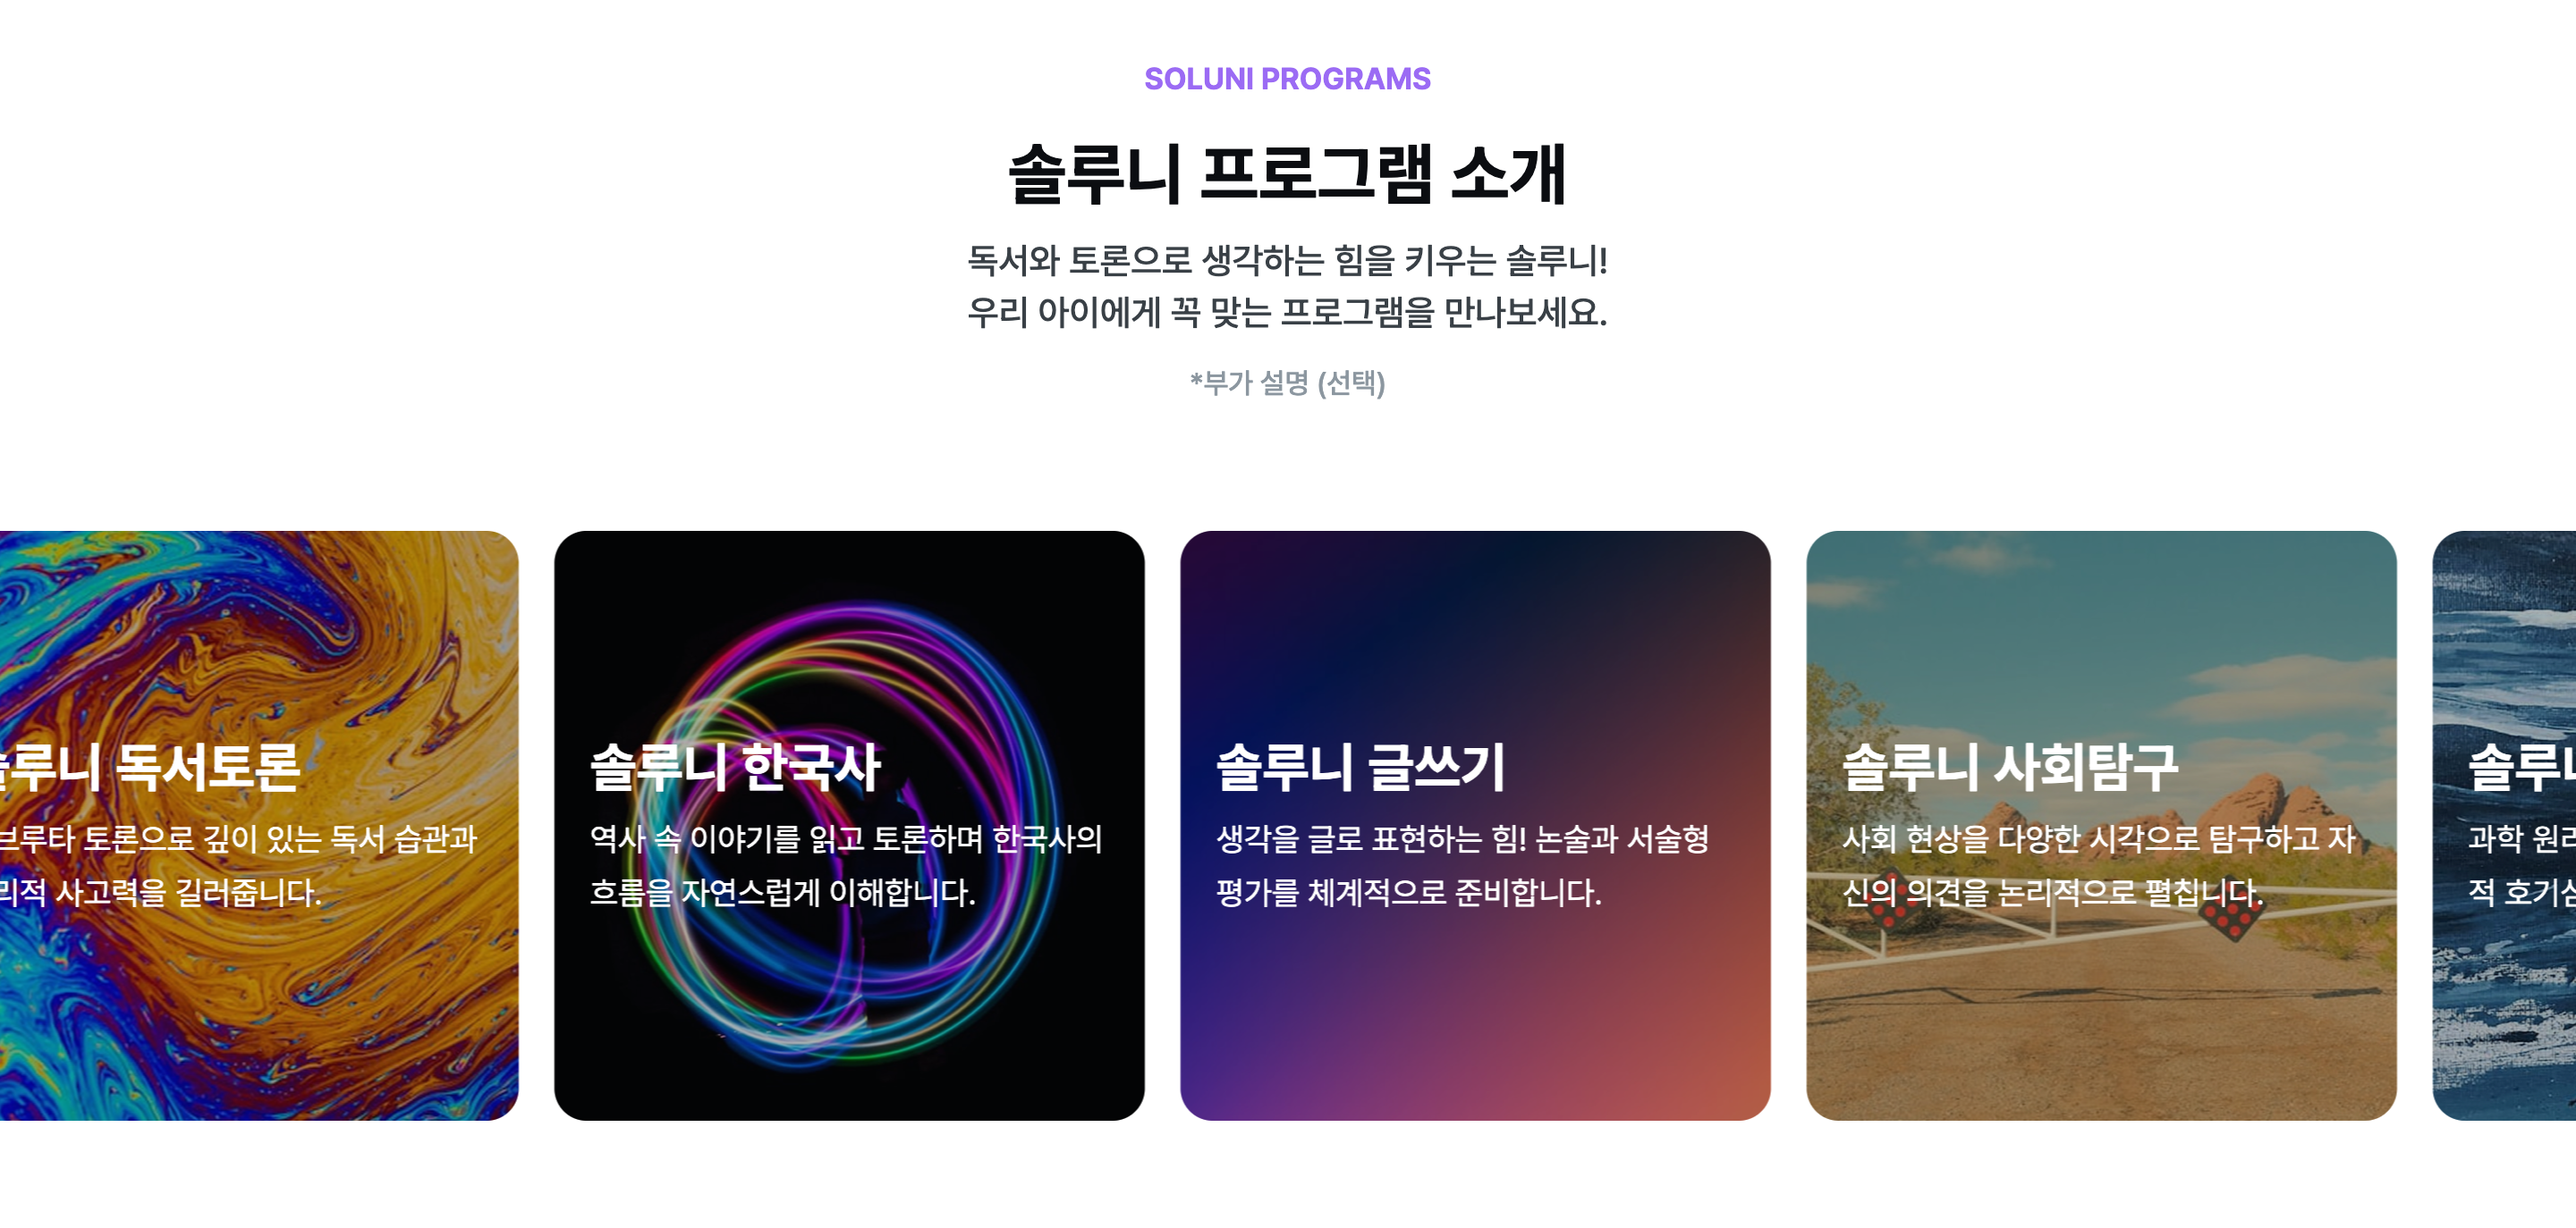
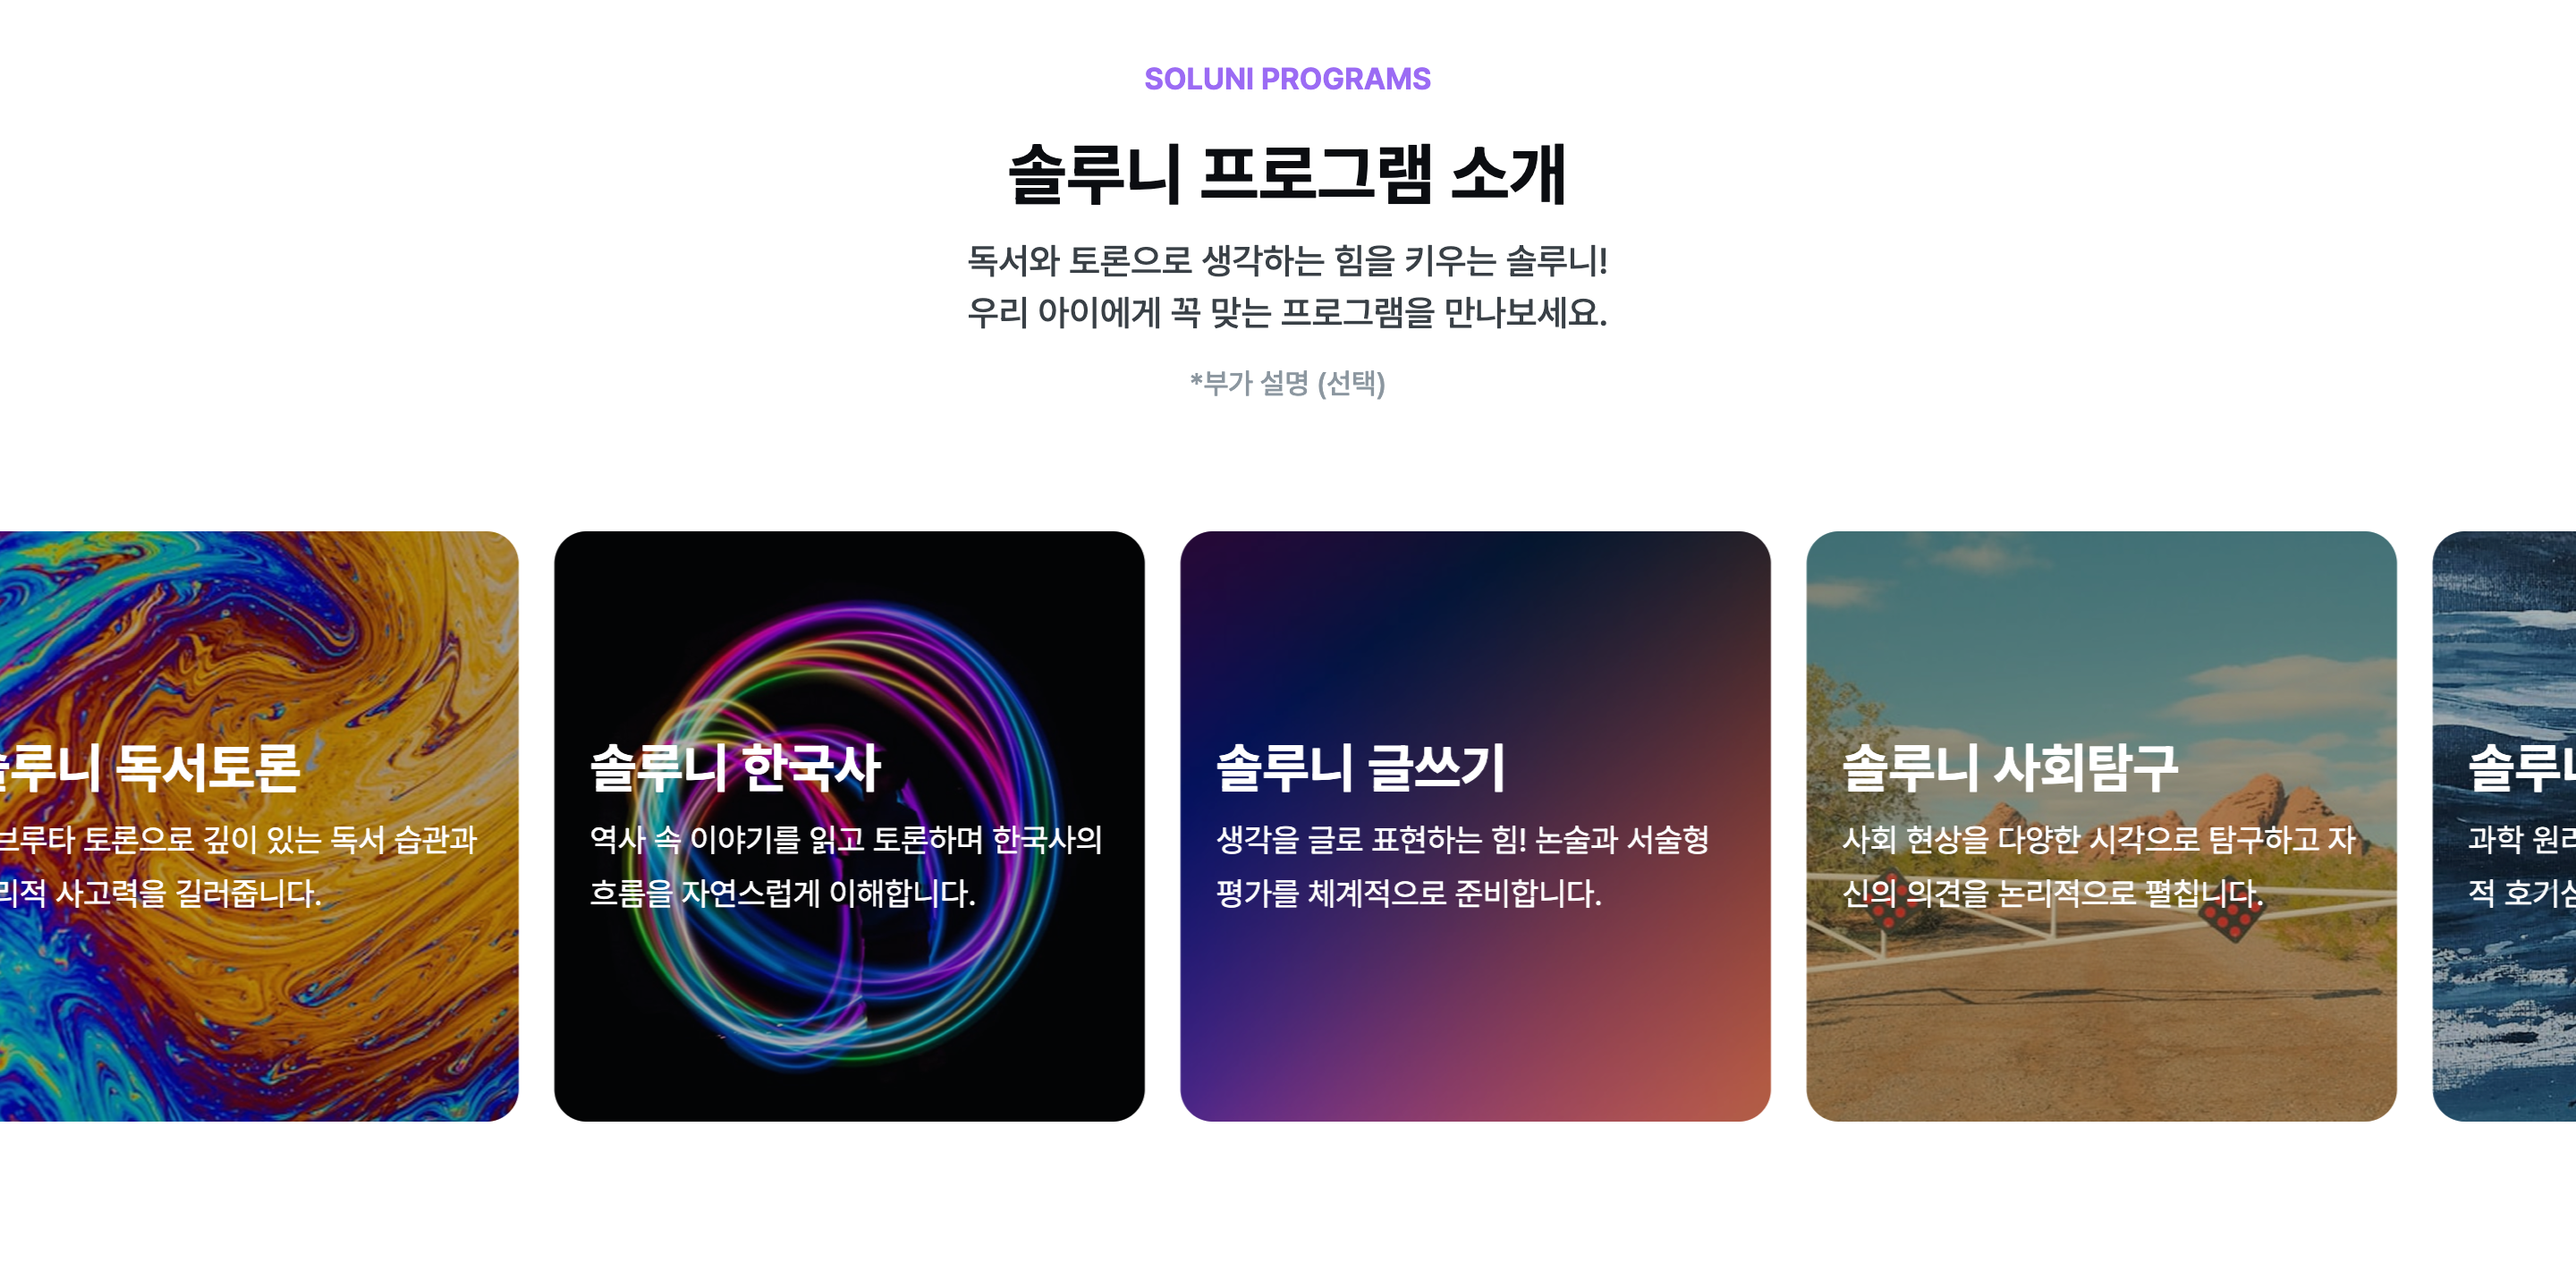
Fix thumbnail aspect ratio: always clip to 2:1
짧은 섹션(intro 등)이 2:1보다 가로로 훨씬 넓은 비율로 캡처되어
object-fit: cover 시 심하게 확대되던 문제 수정

- clipHeight를 항상 width/2로 고정 (섹션 짧으면 흰 배경으로 채움)
- 뷰포트 높이 900 → 1200 (클립 영역 잘림 방지)
- 전체 28개 썸네일 재생성 (모두 2880×1440)

Changed region(s): [[0.0, 0.3974, 1.0, 0.917], [0.375, 0.0306, 0.625, 0.3362]]

diff --git a/scripts/screenshot.js b/scripts/screenshot.js
@@ -18,7 +18,7 @@ const SECTIONS_DIR = path.join(ROOT, 'sections');
 const OUTPUT_DIR = path.join(ROOT, 'images', 'showcase');
 
 const VIEWPORT_WIDTH = 1440;
-const VIEWPORT_HEIGHT = 900;
+const VIEWPORT_HEIGHT = 1200; // 클립 높이(720)보다 충분히 크게
 const DEVICE_SCALE_FACTOR = 2; // Retina 품질 (2x)
 
 // 카테고리 디렉토리 → 출력 파일명 prefix 매핑
@@ -147,17 +147,18 @@ async function main() {
         continue;
       }
 
-      // 섹션 높이를 2:1 비율로 클리핑
+      // 항상 2:1 비율로 클리핑 (섹션이 짧아도 고정 높이 유지)
       const box = await element.boundingBox();
-      const clipHeight = Math.round(VIEWPORT_WIDTH / 2); // 2:1
+      const clipWidth = Math.min(box.width, VIEWPORT_WIDTH);
+      const clipHeight = Math.round(clipWidth / 2); // 항상 2:1
 
       await page.screenshot({
         path: outputPath,
         clip: {
           x: box.x,
           y: box.y,
-          width: Math.min(box.width, VIEWPORT_WIDTH),
-          height: Math.min(box.height, clipHeight),
+          width: clipWidth,
+          height: clipHeight, // 섹션이 짧으면 흰 배경으로 채워짐
         },
       });
 
